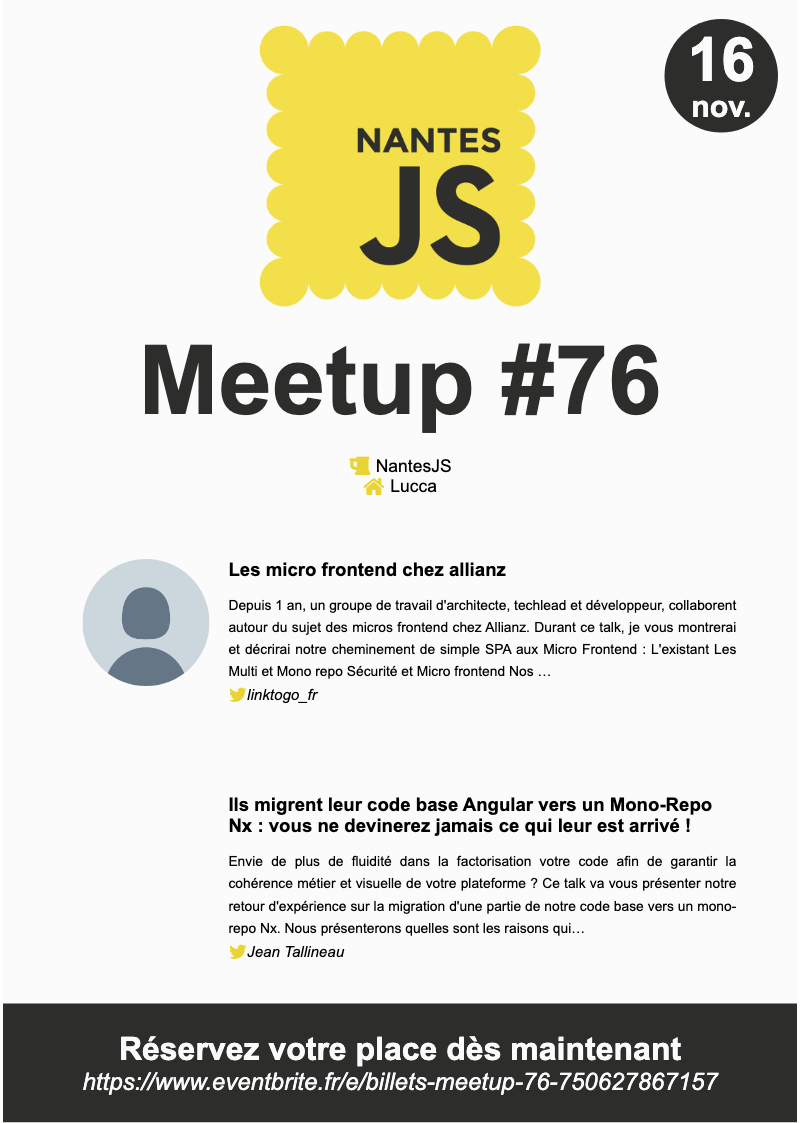
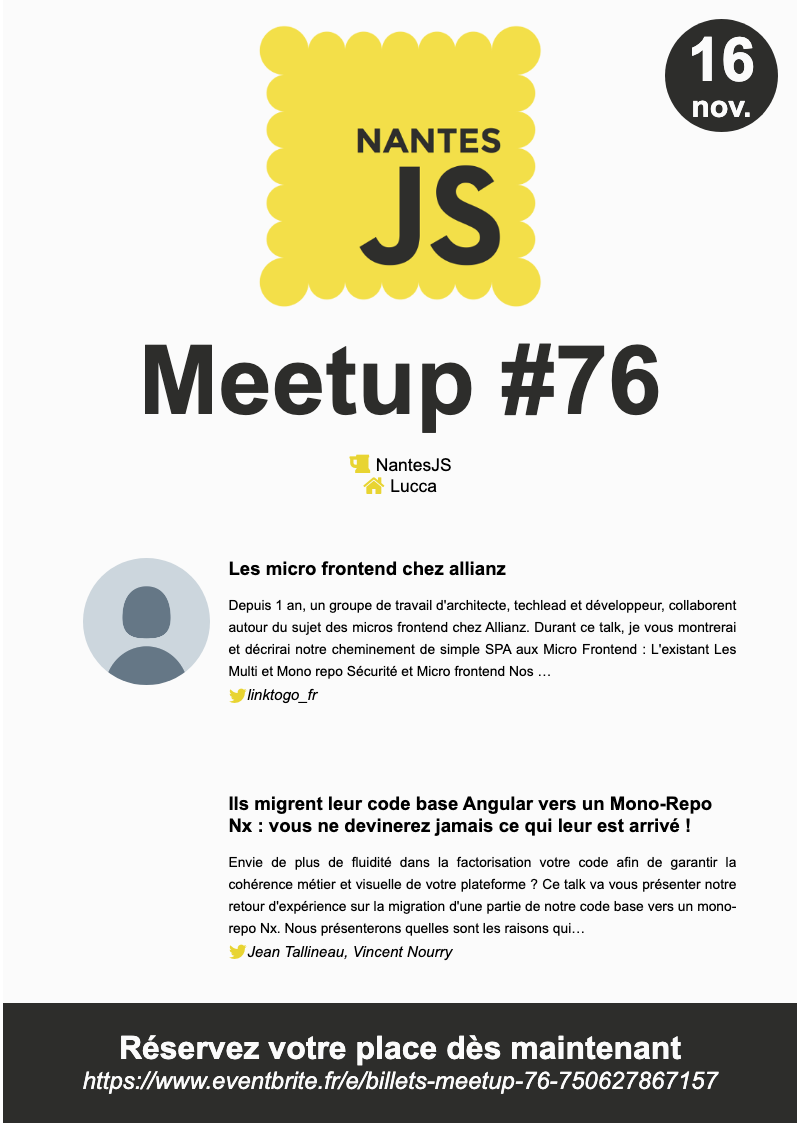
:pencil: Update meetup 76 with co speaker

diff --git a/datas/meetups/meetup-76.md b/datas/meetups/meetup-76.md
@@ -45,4 +45,7 @@ Conclusions"
       -
           id: '57d4d9a1-6e68-4b88-8c65-ece7d56ca9d4'
           name: 'Jean Tallineau'
+      -
+          id: '7e054d3f-5c8c-478a-97da-71840efcdd1f'
+          name: 'Vincent Nourry'
 
